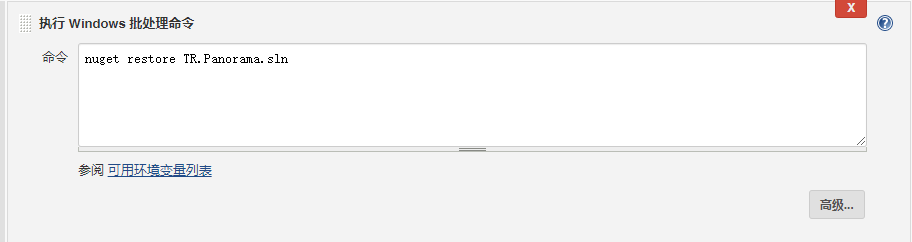
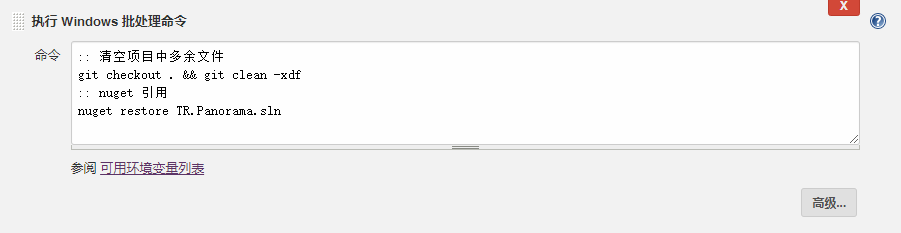
Modify:software-jenkins

diff --git a/blog/2019/12/26/software-Jenkins/index.html b/blog/2019/12/26/software-Jenkins/index.html
@@ -47,9 +47,10 @@
 <meta property="og:image" content="https://raw.githubusercontent.com/Sadness96/sadness96.github.io/master/images/blog/software-jenkins/msbuildasp.png">
 <meta property="og:image" content="https://raw.githubusercontent.com/Sadness96/sadness96.github.io/master/images/blog/software-jenkins/copydel.png">
 <meta property="og:image" content="https://raw.githubusercontent.com/Sadness96/sadness96.github.io/master/images/blog/software-jenkins/nsis.png">
+<meta property="og:image" content="https://raw.githubusercontent.com/Sadness96/sadness96.github.io/master/images/blog/software-jenkins/zipfile.png">
 <meta property="og:image" content="https://raw.githubusercontent.com/Sadness96/sadness96.github.io/master/images/blog/software-jenkins/归档成品.png">
 <meta property="og:image" content="https://raw.githubusercontent.com/Sadness96/sadness96.github.io/master/images/blog/software-jenkins/结果.png">
-<meta property="og:updated_time" content="2020-01-03T15:45:06.697Z">
+<meta property="og:updated_time" content="2020-01-05T13:00:21.693Z">
 <meta name="twitter:card" content="summary">
 <meta name="twitter:title" content="Jenkins 使用介绍">
 <meta name="twitter:image" content="https://raw.githubusercontent.com/Sadness96/sadness96.github.io/master/images/blog/software-jenkins/jenkins.png">
@@ -193,11 +194,11 @@
 <h3 id="运行流程"><a href="#运行流程" class="headerlink" title="运行流程"></a>运行流程</h3><p>以部署PC客户端软件为例：<br>1.连接 <a href="https://about.gitlab.com/" target="_blank" rel="noopener">GitLab</a> 仓库 pull 最新代码<br>2.使用 <a href="https://www.nuget.org/" target="_blank" rel="noopener">NuGet</a> 还原引用库<br>3.使用 <a href="https://msdn.microsoft.com/zh-CN/library/dd393574.aspx" target="_blank" rel="noopener">MSBuild</a> 编译项目工程<br>4.使用 <a href="https://nsis.sourceforge.io/Main_Page" target="_blank" rel="noopener">NSIS</a> 打包软件为安装包<br>5.以邮件方式将打包文件发送(未完成)</p>
 <h3 id="软件部署"><a href="#软件部署" class="headerlink" title="软件部署"></a>软件部署</h3><p>软件安装参考 <a href="https://jenkins.io/zh/doc/pipeline/tour/getting-started/" target="_blank" rel="noopener">官方文档</a></p>
 <h4 id="遇到的问题"><a href="#遇到的问题" class="headerlink" title="遇到的问题"></a>遇到的问题</h4><h5 id="插件安装失败"><a href="#插件安装失败" class="headerlink" title="插件安装失败"></a>插件安装失败</h5><p>登录重启页重启后重试<br><a href="http://localhost:8081/restart" target="_blank" rel="noopener">http://localhost:8081/restart</a></p>
-<h5 id="需安装-Jenkins-插件"><a href="#需安装-Jenkins-插件" class="headerlink" title="需安装 Jenkins 插件"></a>需安装 Jenkins 插件</h5><p>Git、MSBuild、NuGet</p>
+<h5 id="需安装-Jenkins-插件"><a href="#需安装-Jenkins-插件" class="headerlink" title="需安装 Jenkins 插件"></a>需安装 Jenkins 插件</h5><p>Git、MSBuild、NuGet、PowerShell</p>
 <h5 id="配置系统环境变量"><a href="#配置系统环境变量" class="headerlink" title="配置系统环境变量"></a>配置系统环境变量</h5><p>Path 下增加 MSBuild 路径：<br>D:\Software\Microsoft Visual Studio\2019\Preview\MSBuild\Current\Bin\amd64</p>
 <h5 id="NuGet-控制台程序下载"><a href="#NuGet-控制台程序下载" class="headerlink" title="NuGet 控制台程序下载"></a>NuGet 控制台程序下载</h5><p><a href="https://www.nuget.org/downloads" target="_blank" rel="noopener">https://www.nuget.org/downloads</a><br>下载后拷贝至 Path 环境变量中</p>
 <h4 id="构建"><a href="#构建" class="headerlink" title="构建"></a>构建</h4><h5 id="Pull-Git-代码"><a href="#Pull-Git-代码" class="headerlink" title="Pull Git 代码"></a>Pull Git 代码</h5><p>填写 Git 地址以及分支名称即可<br><img src="https://raw.githubusercontent.com/Sadness96/sadness96.github.io/master/images/blog/software-jenkins/%E6%BA%90%E7%A0%81%E7%AE%A1%E7%90%86.png"></p>
-<h5 id="还原-NuGet-包"><a href="#还原-NuGet-包" class="headerlink" title="还原 NuGet 包"></a>还原 NuGet 包</h5><p>构建中选择：执行 Windows 批处理程序<br><figure class="highlight cmd"><table><tr><td class="gutter"><pre><span class="line">1</span><br><span class="line">2</span><br></pre></td><td class="code"><pre><span class="line">:: 调用 nuget 命令还原引用库</span><br><span class="line">nuget <span class="built_in">restore</span> project.sln</span><br></pre></td></tr></table></figure></p>
+<h5 id="还原-NuGet-包"><a href="#还原-NuGet-包" class="headerlink" title="还原 NuGet 包"></a>还原 NuGet 包</h5><p>构建中选择：执行 Windows 批处理程序<br><figure class="highlight cmd"><table><tr><td class="gutter"><pre><span class="line">1</span><br><span class="line">2</span><br><span class="line">3</span><br><span class="line">4</span><br></pre></td><td class="code"><pre><span class="line">:: 清空项目中多余文件</span><br><span class="line">git checkout . &amp;&amp; git clean -xdf</span><br><span class="line">:: nuget 引用</span><br><span class="line">nuget <span class="built_in">restore</span> project.sln</span><br></pre></td></tr></table></figure></p>
 <p><img src="https://raw.githubusercontent.com/Sadness96/sadness96.github.io/master/images/blog/software-jenkins/nuget.png"></p>
 <h5 id="编译代码-客户端"><a href="#编译代码-客户端" class="headerlink" title="编译代码(客户端)"></a>编译代码(客户端)</h5><p>构建中选择：Build a Visual Studio project or solution using MSBuild</p>
 <table>
@@ -251,6 +252,8 @@
 <p><img src="https://raw.githubusercontent.com/Sadness96/sadness96.github.io/master/images/blog/software-jenkins/copydel.png"></p>
 <h5 id="程序打包"><a href="#程序打包" class="headerlink" title="程序打包"></a>程序打包</h5><p>构建中选择：执行 Windows 批处理程序<br><a href="https://nsis.sourceforge.io/Main_Page" target="_blank" rel="noopener">NSIS</a> 使用参考：<a href="http://sadness96.github.io/blog/2018/11/24/software-Nsis/">使用介绍</a><br><figure class="highlight cmd"><table><tr><td class="gutter"><pre><span class="line">1</span><br><span class="line">2</span><br></pre></td><td class="code"><pre><span class="line">:: 调用 makensis 命令构建 NSI</span><br><span class="line">makensis PanoramaClientSetup.nsi</span><br></pre></td></tr></table></figure></p>
 <p><img src="https://raw.githubusercontent.com/Sadness96/sadness96.github.io/master/images/blog/software-jenkins/nsis.png"></p>
+<h5 id="压缩文件打包"><a href="#压缩文件打包" class="headerlink" title="压缩文件打包"></a>压缩文件打包</h5><p>构建中选择：PowerShell<br><figure class="highlight cmd"><table><tr><td class="gutter"><pre><span class="line">1</span><br><span class="line">2</span><br><span class="line">3</span><br><span class="line">4</span><br><span class="line">5</span><br><span class="line">6</span><br></pre></td><td class="code"><pre><span class="line"># 调用 PowerShell 命令压缩文件</span><br><span class="line"></span><br><span class="line"># 压缩文件</span><br><span class="line">Compress-Archive -<span class="built_in">Path</span> .\test -DestinationPath .\test.zip</span><br><span class="line"># 解压缩文件</span><br><span class="line">Expand-Archive -<span class="built_in">Path</span> .\test.zip -DestinationPath .\test</span><br></pre></td></tr></table></figure></p>
+<p><img src="https://raw.githubusercontent.com/Sadness96/sadness96.github.io/master/images/blog/software-jenkins/zipfile.png"></p>
 <h4 id="构建后操作"><a href="#构建后操作" class="headerlink" title="构建后操作"></a>构建后操作</h4><h5 id="归档成品"><a href="#归档成品" class="headerlink" title="归档成品"></a>归档成品</h5><p>在归档成品中直接写入打包好的安装包名称，会在构建结束后在结果中显示并可以直接下载<br><img src="https://raw.githubusercontent.com/Sadness96/sadness96.github.io/master/images/blog/software-jenkins/归档成品.png"></p>
 <p><img src="https://raw.githubusercontent.com/Sadness96/sadness96.github.io/master/images/blog/software-jenkins/结果.png"></p>
     </div>
@@ -327,7 +330,7 @@
       <!--noindex-->
         <div class="post-toc-wrap motion-element sidebar-panel sidebar-panel-active">
           <div class="post-toc">
-              <div class="post-toc-content"><ol class="nav"><li class="nav-item nav-level-3"><a class="nav-link" href="#简介"><span class="nav-number">1.</span> <span class="nav-text">简介</span></a></li><li class="nav-item nav-level-3"><a class="nav-link" href="#运行流程"><span class="nav-number">2.</span> <span class="nav-text">运行流程</span></a></li><li class="nav-item nav-level-3"><a class="nav-link" href="#软件部署"><span class="nav-number">3.</span> <span class="nav-text">软件部署</span></a><ol class="nav-child"><li class="nav-item nav-level-4"><a class="nav-link" href="#遇到的问题"><span class="nav-number">3.1.</span> <span class="nav-text">遇到的问题</span></a><ol class="nav-child"><li class="nav-item nav-level-5"><a class="nav-link" href="#插件安装失败"><span class="nav-number">3.1.1.</span> <span class="nav-text">插件安装失败</span></a></li><li class="nav-item nav-level-5"><a class="nav-link" href="#需安装-Jenkins-插件"><span class="nav-number">3.1.2.</span> <span class="nav-text">需安装 Jenkins 插件</span></a></li><li class="nav-item nav-level-5"><a class="nav-link" href="#配置系统环境变量"><span class="nav-number">3.1.3.</span> <span class="nav-text">配置系统环境变量</span></a></li><li class="nav-item nav-level-5"><a class="nav-link" href="#NuGet-控制台程序下载"><span class="nav-number">3.1.4.</span> <span class="nav-text">NuGet 控制台程序下载</span></a></li></ol></li><li class="nav-item nav-level-4"><a class="nav-link" href="#构建"><span class="nav-number">3.2.</span> <span class="nav-text">构建</span></a><ol class="nav-child"><li class="nav-item nav-level-5"><a class="nav-link" href="#Pull-Git-代码"><span class="nav-number">3.2.1.</span> <span class="nav-text">Pull Git 代码</span></a></li><li class="nav-item nav-level-5"><a class="nav-link" href="#还原-NuGet-包"><span class="nav-number">3.2.2.</span> <span class="nav-text">还原 NuGet 包</span></a></li><li class="nav-item nav-level-5"><a class="nav-link" href="#编译代码-客户端"><span class="nav-number">3.2.3.</span> <span class="nav-text">编译代码(客户端)</span></a></li><li class="nav-item nav-level-5"><a class="nav-link" href="#编译代码-服务端"><span class="nav-number">3.2.4.</span> <span class="nav-text">编译代码(服务端)</span></a></li><li class="nav-item nav-level-5"><a class="nav-link" href="#拷贝或删除多余文件"><span class="nav-number">3.2.5.</span> <span class="nav-text">拷贝或删除多余文件</span></a></li><li class="nav-item nav-level-5"><a class="nav-link" href="#程序打包"><span class="nav-number">3.2.6.</span> <span class="nav-text">程序打包</span></a></li></ol></li><li class="nav-item nav-level-4"><a class="nav-link" href="#构建后操作"><span class="nav-number">3.3.</span> <span class="nav-text">构建后操作</span></a><ol class="nav-child"><li class="nav-item nav-level-5"><a class="nav-link" href="#归档成品"><span class="nav-number">3.3.1.</span> <span class="nav-text">归档成品</span></a></li></ol></li></ol></li></ol></div>
+              <div class="post-toc-content"><ol class="nav"><li class="nav-item nav-level-3"><a class="nav-link" href="#简介"><span class="nav-number">1.</span> <span class="nav-text">简介</span></a></li><li class="nav-item nav-level-3"><a class="nav-link" href="#运行流程"><span class="nav-number">2.</span> <span class="nav-text">运行流程</span></a></li><li class="nav-item nav-level-3"><a class="nav-link" href="#软件部署"><span class="nav-number">3.</span> <span class="nav-text">软件部署</span></a><ol class="nav-child"><li class="nav-item nav-level-4"><a class="nav-link" href="#遇到的问题"><span class="nav-number">3.1.</span> <span class="nav-text">遇到的问题</span></a><ol class="nav-child"><li class="nav-item nav-level-5"><a class="nav-link" href="#插件安装失败"><span class="nav-number">3.1.1.</span> <span class="nav-text">插件安装失败</span></a></li><li class="nav-item nav-level-5"><a class="nav-link" href="#需安装-Jenkins-插件"><span class="nav-number">3.1.2.</span> <span class="nav-text">需安装 Jenkins 插件</span></a></li><li class="nav-item nav-level-5"><a class="nav-link" href="#配置系统环境变量"><span class="nav-number">3.1.3.</span> <span class="nav-text">配置系统环境变量</span></a></li><li class="nav-item nav-level-5"><a class="nav-link" href="#NuGet-控制台程序下载"><span class="nav-number">3.1.4.</span> <span class="nav-text">NuGet 控制台程序下载</span></a></li></ol></li><li class="nav-item nav-level-4"><a class="nav-link" href="#构建"><span class="nav-number">3.2.</span> <span class="nav-text">构建</span></a><ol class="nav-child"><li class="nav-item nav-level-5"><a class="nav-link" href="#Pull-Git-代码"><span class="nav-number">3.2.1.</span> <span class="nav-text">Pull Git 代码</span></a></li><li class="nav-item nav-level-5"><a class="nav-link" href="#还原-NuGet-包"><span class="nav-number">3.2.2.</span> <span class="nav-text">还原 NuGet 包</span></a></li><li class="nav-item nav-level-5"><a class="nav-link" href="#编译代码-客户端"><span class="nav-number">3.2.3.</span> <span class="nav-text">编译代码(客户端)</span></a></li><li class="nav-item nav-level-5"><a class="nav-link" href="#编译代码-服务端"><span class="nav-number">3.2.4.</span> <span class="nav-text">编译代码(服务端)</span></a></li><li class="nav-item nav-level-5"><a class="nav-link" href="#拷贝或删除多余文件"><span class="nav-number">3.2.5.</span> <span class="nav-text">拷贝或删除多余文件</span></a></li><li class="nav-item nav-level-5"><a class="nav-link" href="#程序打包"><span class="nav-number">3.2.6.</span> <span class="nav-text">程序打包</span></a></li><li class="nav-item nav-level-5"><a class="nav-link" href="#压缩文件打包"><span class="nav-number">3.2.7.</span> <span class="nav-text">压缩文件打包</span></a></li></ol></li><li class="nav-item nav-level-4"><a class="nav-link" href="#构建后操作"><span class="nav-number">3.3.</span> <span class="nav-text">构建后操作</span></a><ol class="nav-child"><li class="nav-item nav-level-5"><a class="nav-link" href="#归档成品"><span class="nav-number">3.3.1.</span> <span class="nav-text">归档成品</span></a></li></ol></li></ol></li></ol></div>
           </div>
         </div>
       <!--/noindex-->

diff --git a/blog/2016/12/21/csharp-ADOHelper/index.html b/blog/2016/12/21/csharp-ADOHelper/index.html
@@ -35,7 +35,7 @@
   };
 </script>
   <meta name="description" content="使用 ADO.NET 二次封装ORM框架的数据库操作帮助类">
-<meta name="keywords" content="c#,mysql,helper,sqlite,ado.net,sql server,oracle,access">
+<meta name="keywords" content="c#,helper,ado.net,sql server,oracle,mysql,access,sqlite">
 <meta property="og:type" content="article">
 <meta property="og:title" content="ADO.NET 帮助类">
 <meta property="og:url" content="http://sadness96.github.io/blog/2016/12/21/csharp-ADOHelper/index.html">
@@ -43,7 +43,7 @@
 <meta property="og:description" content="使用 ADO.NET 二次封装ORM框架的数据库操作帮助类">
 <meta property="og:locale" content="zh-CN">
 <meta property="og:image" content="https://raw.githubusercontent.com/Sadness96/sadness96.github.io/master/images/blog/csharp-DevFramework/%E6%95%B0%E6%8D%AE%E5%BA%93%E8%BD%AC%E6%8D%A2%E5%B7%A5%E5%85%B7.png">
-<meta property="og:updated_time" content="2019-09-23T08:46:27.334Z">
+<meta property="og:updated_time" content="2020-01-03T16:16:00.692Z">
 <meta name="twitter:card" content="summary">
 <meta name="twitter:title" content="ADO.NET 帮助类">
 <meta name="twitter:description" content="使用 ADO.NET 二次封装ORM框架的数据库操作帮助类">
@@ -201,13 +201,13 @@
     <footer class="post-footer">
         <div class="post-tags">
             <a href="/blog/tags/c/" rel="tag"># c#</a>
-            <a href="/blog/tags/mysql/" rel="tag"># mysql</a>
             <a href="/blog/tags/helper/" rel="tag"># helper</a>
-            <a href="/blog/tags/sqlite/" rel="tag"># sqlite</a>
             <a href="/blog/tags/ado-net/" rel="tag"># ado.net</a>
             <a href="/blog/tags/sql-server/" rel="tag"># sql server</a>
             <a href="/blog/tags/oracle/" rel="tag"># oracle</a>
+            <a href="/blog/tags/mysql/" rel="tag"># mysql</a>
             <a href="/blog/tags/access/" rel="tag"># access</a>
+            <a href="/blog/tags/sqlite/" rel="tag"># sqlite</a>
         </div>
         <div class="post-nav">
           <div class="post-nav-next post-nav-item">

diff --git a/blog/2016/12/20/csharp-DevFramework/index.html b/blog/2016/12/20/csharp-DevFramework/index.html
@@ -35,7 +35,7 @@
   };
 </script>
   <meta name="description" content="基于 Wpf + Prism + DevExpress 制作的插件式开发基础框架">
-<meta name="keywords" content="c#,wpf,helper,devexpress">
+<meta name="keywords" content="c#,helper,wpf,devexpress">
 <meta property="og:type" content="article">
 <meta property="og:title" content="C&#x2F;S端开发基础框架">
 <meta property="og:url" content="http://sadness96.github.io/blog/2016/12/20/csharp-DevFramework/index.html">
@@ -49,7 +49,7 @@
 <meta property="og:image" content="https://raw.githubusercontent.com/Sadness96/sadness96.github.io/master/images/blog/csharp-DevFramework/%E5%8A%A0%E5%AF%86%E8%A7%A3%E5%AF%86%E5%B7%A5%E5%85%B7.png">
 <meta property="og:image" content="https://raw.githubusercontent.com/Sadness96/sadness96.github.io/master/images/blog/csharp-DevFramework/%E6%96%87%E4%BB%B6%E5%85%B1%E4%BA%AB.png">
 <meta property="og:image" content="https://raw.githubusercontent.com/Sadness96/sadness96.github.io/master/images/blog/csharp-DevFramework/%E6%95%B0%E6%8D%AE%E5%BA%93%E8%BD%AC%E6%8D%A2%E5%B7%A5%E5%85%B7.png">
-<meta property="og:updated_time" content="2019-09-23T08:47:40.646Z">
+<meta property="og:updated_time" content="2020-01-03T16:16:00.694Z">
 <meta name="twitter:card" content="summary">
 <meta name="twitter:title" content="C&#x2F;S端开发基础框架">
 <meta name="twitter:description" content="基于 Wpf + Prism + DevExpress 制作的插件式开发基础框架">
@@ -200,8 +200,8 @@
     <footer class="post-footer">
         <div class="post-tags">
             <a href="/blog/tags/c/" rel="tag"># c#</a>
-            <a href="/blog/tags/wpf/" rel="tag"># wpf</a>
             <a href="/blog/tags/helper/" rel="tag"># helper</a>
+            <a href="/blog/tags/wpf/" rel="tag"># wpf</a>
             <a href="/blog/tags/devexpress/" rel="tag"># devexpress</a>
         </div>
         <div class="post-nav">

diff --git a/blog/2018/05/28/work-Forestar/index.html b/blog/2018/05/28/work-Forestar/index.html
@@ -35,7 +35,7 @@
   };
 </script>
   <meta name="description" content="基于 ArcGIS 和公司自主平台 Mapzone 进行地理信息系统二次开发">
-<meta name="keywords" content="c#,mysql,winform,sqlite">
+<meta name="keywords" content="c#,mysql,sqlite,winform">
 <meta property="og:type" content="article">
 <meta property="og:title" content="地林伟业科技股份有限公司">
 <meta property="og:url" content="http://sadness96.github.io/blog/2018/05/28/work-Forestar/index.html">
@@ -43,7 +43,7 @@
 <meta property="og:description" content="基于 ArcGIS 和公司自主平台 Mapzone 进行地理信息系统二次开发">
 <meta property="og:locale" content="zh-CN">
 <meta property="og:image" content="https://raw.githubusercontent.com/Sadness96/sadness96.github.io/master/images/blog/work-Forestar/mapzone.png">
-<meta property="og:updated_time" content="2019-09-23T08:52:01.406Z">
+<meta property="og:updated_time" content="2020-01-03T16:16:00.701Z">
 <meta name="twitter:card" content="summary">
 <meta name="twitter:title" content="地林伟业科技股份有限公司">
 <meta name="twitter:description" content="基于 ArcGIS 和公司自主平台 Mapzone 进行地理信息系统二次开发">
@@ -195,8 +195,8 @@
         <div class="post-tags">
             <a href="/blog/tags/c/" rel="tag"># c#</a>
             <a href="/blog/tags/mysql/" rel="tag"># mysql</a>
-            <a href="/blog/tags/winform/" rel="tag"># winform</a>
             <a href="/blog/tags/sqlite/" rel="tag"># sqlite</a>
+            <a href="/blog/tags/winform/" rel="tag"># winform</a>
         </div>
         <div class="post-nav">
           <div class="post-nav-next post-nav-item">

diff --git a/blog/2018/07/02/csharp-EntityFramework/index.html b/blog/2018/07/02/csharp-EntityFramework/index.html
@@ -35,7 +35,7 @@
   };
 </script>
   <meta name="description" content="EntityFramework 框架使用介绍">
-<meta name="keywords" content="c#,ef,mysql">
+<meta name="keywords" content="c#,mysql,ef">
 <meta property="og:type" content="article">
 <meta property="og:title" content="EntityFramework Demo">
 <meta property="og:url" content="http://sadness96.github.io/blog/2018/07/02/csharp-EntityFramework/index.html">
@@ -50,7 +50,7 @@
 <meta property="og:image" content="https://raw.githubusercontent.com/Sadness96/sadness96.github.io/master/images/blog/csharp-EntityFramework/ef6.png">
 <meta property="og:image" content="https://raw.githubusercontent.com/Sadness96/sadness96.github.io/master/images/blog/csharp-EntityFramework/ef7.png">
 <meta property="og:image" content="https://raw.githubusercontent.com/Sadness96/sadness96.github.io/master/images/blog/csharp-EntityFramework/error1.png">
-<meta property="og:updated_time" content="2019-08-14T06:15:22.022Z">
+<meta property="og:updated_time" content="2020-01-03T16:16:00.694Z">
 <meta name="twitter:card" content="summary">
 <meta name="twitter:title" content="EntityFramework Demo">
 <meta name="twitter:description" content="EntityFramework 框架使用介绍">
@@ -208,8 +208,8 @@
     <footer class="post-footer">
         <div class="post-tags">
             <a href="/blog/tags/c/" rel="tag"># c#</a>
-            <a href="/blog/tags/ef/" rel="tag"># ef</a>
             <a href="/blog/tags/mysql/" rel="tag"># mysql</a>
+            <a href="/blog/tags/ef/" rel="tag"># ef</a>
         </div>
         <div class="post-nav">
           <div class="post-nav-next post-nav-item">

diff --git a/blog/2017/05/10/csharp-INIHelper/index.html b/blog/2017/05/10/csharp-INIHelper/index.html
@@ -35,14 +35,14 @@
   };
 </script>
   <meta name="description" content="操作 INI 文件帮助类">
-<meta name="keywords" content="c#,ini,helper">
+<meta name="keywords" content="c#,helper,ini">
 <meta property="og:type" content="article">
 <meta property="og:title" content="INI文件帮助类">
 <meta property="og:url" content="http://sadness96.github.io/blog/2017/05/10/csharp-INIHelper/index.html">
 <meta property="og:site_name" content="个人博客 - 刘佳华">
 <meta property="og:description" content="操作 INI 文件帮助类">
 <meta property="og:locale" content="zh-CN">
-<meta property="og:updated_time" content="2019-08-14T06:15:22.023Z">
+<meta property="og:updated_time" content="2020-01-03T16:16:00.695Z">
 <meta name="twitter:card" content="summary">
 <meta name="twitter:title" content="INI文件帮助类">
 <meta name="twitter:description" content="操作 INI 文件帮助类">
@@ -187,8 +187,8 @@
     <footer class="post-footer">
         <div class="post-tags">
             <a href="/blog/tags/c/" rel="tag"># c#</a>
-            <a href="/blog/tags/ini/" rel="tag"># ini</a>
             <a href="/blog/tags/helper/" rel="tag"># helper</a>
+            <a href="/blog/tags/ini/" rel="tag"># ini</a>
         </div>
         <div class="post-nav">
           <div class="post-nav-next post-nav-item">

diff --git a/blog/about/index.html b/blog/about/index.html
@@ -41,7 +41,7 @@
 <meta property="og:site_name" content="个人博客 - 刘佳华">
 <meta property="og:description" content=".content-wrap {     background: #fff;     margin-bottom: 20px;     padding: 20px; }   欢迎访问我的个人博客！我叫刘佳华个人简介从小学刚接触到电脑开始，就默默规划自己的一生，从被学校排挤的差等生，从被亲戚排挤的网瘾少年，成长为现代的魔法师（程序猿）。水平不高，能力有限，但是依旧希望有能够改变世界的一天！ Scho">
 <meta property="og:locale" content="zh-CN">
-<meta property="og:updated_time" content="2019-09-05T07:19:51.631Z">
+<meta property="og:updated_time" content="2020-01-03T16:16:00.702Z">
 <meta name="twitter:card" content="summary">
 <meta name="twitter:title" content="关于">
 <meta name="twitter:description" content=".content-wrap {     background: #fff;     margin-bottom: 20px;     padding: 20px; }   欢迎访问我的个人博客！我叫刘佳华个人简介从小学刚接触到电脑开始，就默默规划自己的一生，从被学校排挤的差等生，从被亲戚排挤的网瘾少年，成长为现代的魔法师（程序猿）。水平不高，能力有限，但是依旧希望有能够改变世界的一天！ Scho">

diff --git a/blog/2019/06/12/work-KedunTech/index.html b/blog/2019/06/12/work-KedunTech/index.html
@@ -48,7 +48,7 @@
 <meta property="og:image" content="https://raw.githubusercontent.com/Sadness96/sadness96.github.io/master/images/blog/work-KedunTech/%E9%87%8D%E5%BB%BA%E7%9B%91%E6%8E%A7%E6%8B%8D%E6%91%84%E8%A7%86%E9%A2%91%E6%88%AA%E5%9B%BE.jpg">
 <meta property="og:image" content="https://raw.githubusercontent.com/Sadness96/sadness96.github.io/master/images/blog/work-KedunTech/%E8%B6%85%E5%88%86%E8%BE%A8%E7%8E%87%E9%87%8D%E5%BB%BA.png">
 <meta property="og:image" content="https://raw.githubusercontent.com/Sadness96/sadness96.github.io/master/images/blog/work-KedunTech/%E6%A8%A1%E6%8B%9F%E7%94%BB%E5%83%8F.png">
-<meta property="og:updated_time" content="2019-09-23T08:51:59.303Z">
+<meta property="og:updated_time" content="2020-01-03T16:16:00.701Z">
 <meta name="twitter:card" content="summary">
 <meta name="twitter:title" content="科盾科技股份有限公司">
 <meta name="twitter:description" content="人像识别重建系统">

diff --git a/blog/2016/05/10/school-University/index.html b/blog/2016/05/10/school-University/index.html
@@ -51,7 +51,7 @@
 <meta property="og:image" content="https://raw.githubusercontent.com/Sadness96/sadness96.github.io/master/images/blog/memory-University/java-查询界面.png">
 <meta property="og:image" content="https://raw.githubusercontent.com/Sadness96/sadness96.github.io/master/images/blog/memory-University/java-添加界面.png">
 <meta property="og:image" content="https://raw.githubusercontent.com/Sadness96/sadness96.github.io/master/images/blog/memory-University/java-删除界面.png">
-<meta property="og:updated_time" content="2019-09-23T08:50:07.751Z">
+<meta property="og:updated_time" content="2020-01-03T16:16:00.699Z">
 <meta name="twitter:card" content="summary">
 <meta name="twitter:title" content="哈尔滨信息工程学院">
 <meta name="twitter:image" content="https://raw.githubusercontent.com/Sadness96/sadness96.github.io/master/images/blog/memory-University/school.png">

diff --git a/blog/2014/10/05/school-HighSchool/index.html b/blog/2014/10/05/school-HighSchool/index.html
@@ -46,7 +46,7 @@
 <meta property="og:image" content="https://raw.githubusercontent.com/Sadness96/sadness96.github.io/master/images/blog/memory-HighSchool/%E9%9B%B7%E9%94%8B.jpg">
 <meta property="og:image" content="https://raw.githubusercontent.com/Sadness96/sadness96.github.io/master/images/blog/memory-HighSchool/%E8%8A%B11.jpg">
 <meta property="og:image" content="https://raw.githubusercontent.com/Sadness96/sadness96.github.io/master/images/blog/memory-HighSchool/%E8%8A%B12.jpg">
-<meta property="og:updated_time" content="2019-09-23T08:50:15.965Z">
+<meta property="og:updated_time" content="2020-01-03T16:16:00.699Z">
 <meta name="twitter:card" content="summary">
 <meta name="twitter:title" content="齐齐哈尔职业教育中心学校">
 <meta name="twitter:image" content="https://raw.githubusercontent.com/Sadness96/sadness96.github.io/master/images/blog/memory-HighSchool/school.png">

diff --git a/blog/2018/08/01/software-Depends/index.html b/blog/2018/08/01/software-Depends/index.html
@@ -43,7 +43,7 @@
 <meta property="og:image" content="https://raw.githubusercontent.com/Sadness96/sadness96.github.io/master/images/blog/software-Depends/depends.jpg">
 <meta property="og:image" content="https://raw.githubusercontent.com/Sadness96/sadness96.github.io/master/images/blog/software-Depends/LackDLL.png">
 <meta property="og:image" content="https://raw.githubusercontent.com/Sadness96/sadness96.github.io/master/images/blog/software-Depends/C-CPP.jpg">
-<meta property="og:updated_time" content="2019-09-23T08:50:32.079Z">
+<meta property="og:updated_time" content="2020-01-03T16:16:00.700Z">
 <meta name="twitter:card" content="summary">
 <meta name="twitter:title" content="Depends 使用介绍">
 <meta name="twitter:image" content="https://raw.githubusercontent.com/Sadness96/sadness96.github.io/master/images/blog/software-Depends/depends.jpg">

diff --git a/blog/2017/08/20/software-VisualSVN/index.html b/blog/2017/08/20/software-VisualSVN/index.html
@@ -50,7 +50,7 @@
 <meta property="og:image" content="https://raw.githubusercontent.com/Sadness96/sadness96.github.io/master/images/blog/software-VisualSVN/CreateNewRepositoryAccess.png">
 <meta property="og:image" content="https://raw.githubusercontent.com/Sadness96/sadness96.github.io/master/images/blog/software-VisualSVN/AddUser.png">
 <meta property="og:image" content="https://raw.githubusercontent.com/Sadness96/sadness96.github.io/master/images/blog/software-VisualSVN/Checkout.jpg">
-<meta property="og:updated_time" content="2019-09-23T08:51:06.310Z">
+<meta property="og:updated_time" content="2020-01-03T16:16:00.700Z">
 <meta name="twitter:card" content="summary">
 <meta name="twitter:title" content="VisualSVN 使用介绍">
 <meta name="twitter:description" content="使用 SVN 作为版本管理工具">
